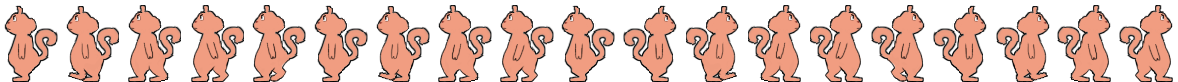
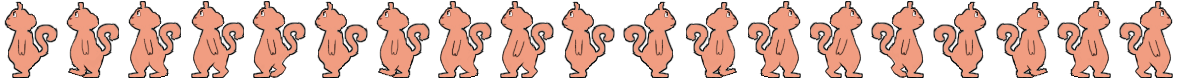
changements

diff --git a/src/scenes/structure/Tableau.js b/src/scenes/structure/Tableau.js
@@ -25,7 +25,7 @@ class Tableau extends Phaser.Scene{
 
         this.load.spritesheet('squirrel',
         'assets/squirrel.png',
-            { frameWidth: 62, frameHeight: 82  }
+            { frameWidth: 62, frameHeight: 78  }
         );
 
     }
@@ -45,7 +45,7 @@ class Tableau extends Phaser.Scene{
          * Le joueur
          * @type {Player}
          */
-        this.player=new Player(this,0,0);
+        this.player=new Player(this,50,870);
         this.player.setMaxVelocity(800,800); //évite que le player quand il tombe ne traverse des plateformes
         this.blood=this.add.sprite(this.sys.canvas.width/2,this.sys.canvas.height/2,"blood")
         this.blood.displayWidth=64;

diff --git a/src/objects/Squirrel.js b/src/objects/Squirrel.js
@@ -34,7 +34,7 @@ class Squirrel extends ObjetEnnemi{
         this.anims.create({
             key: 'right',
             frames: this.anims.generateFrameNumbers('squirrel', { start: 10, end: 18 }),
-            frameRate: 12,
+            frameRate: 9,
             repeat: -1
         });
         
